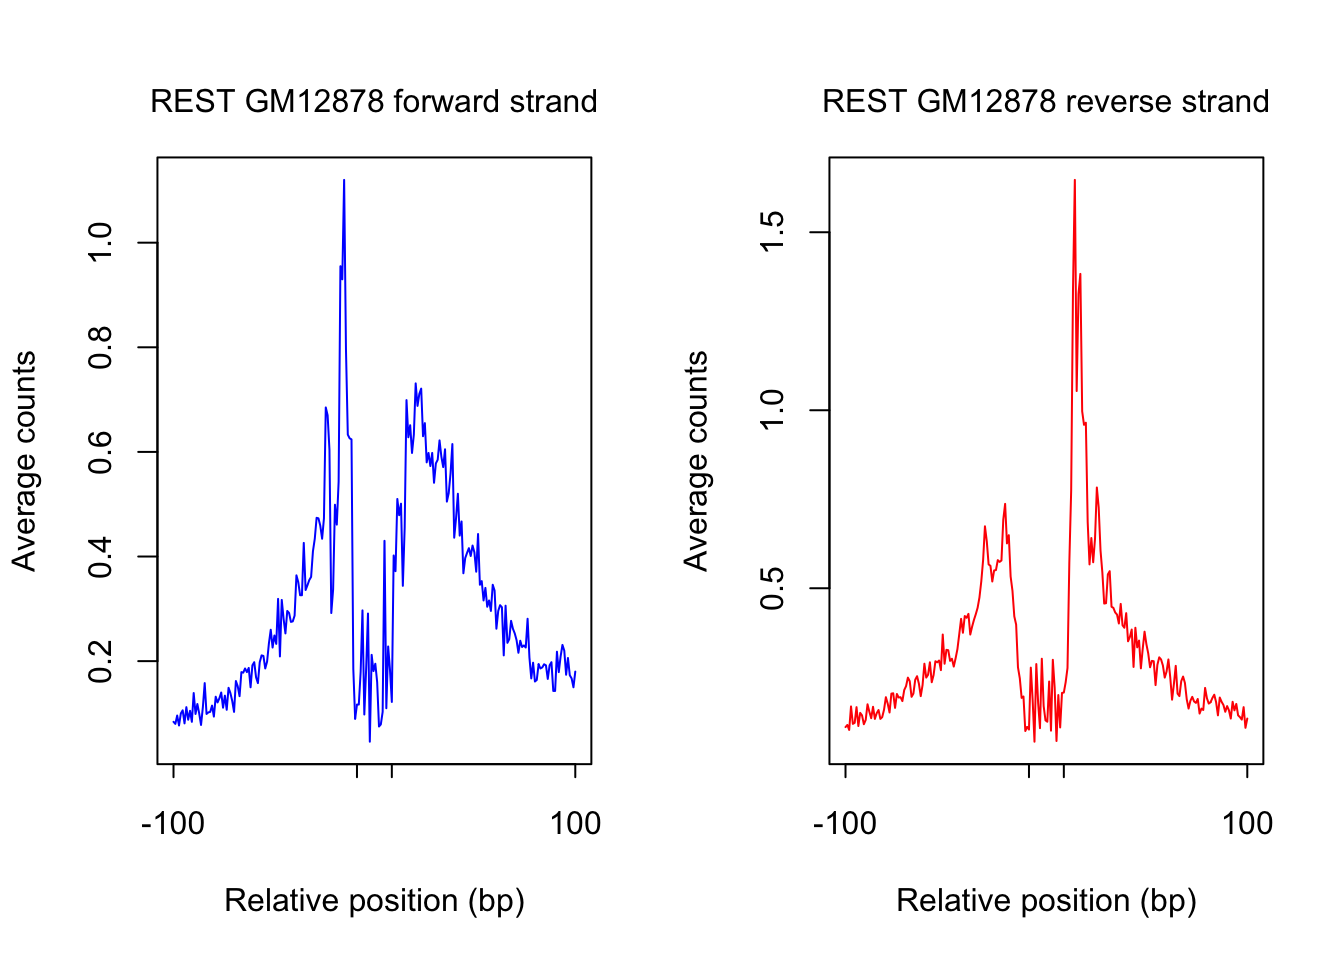
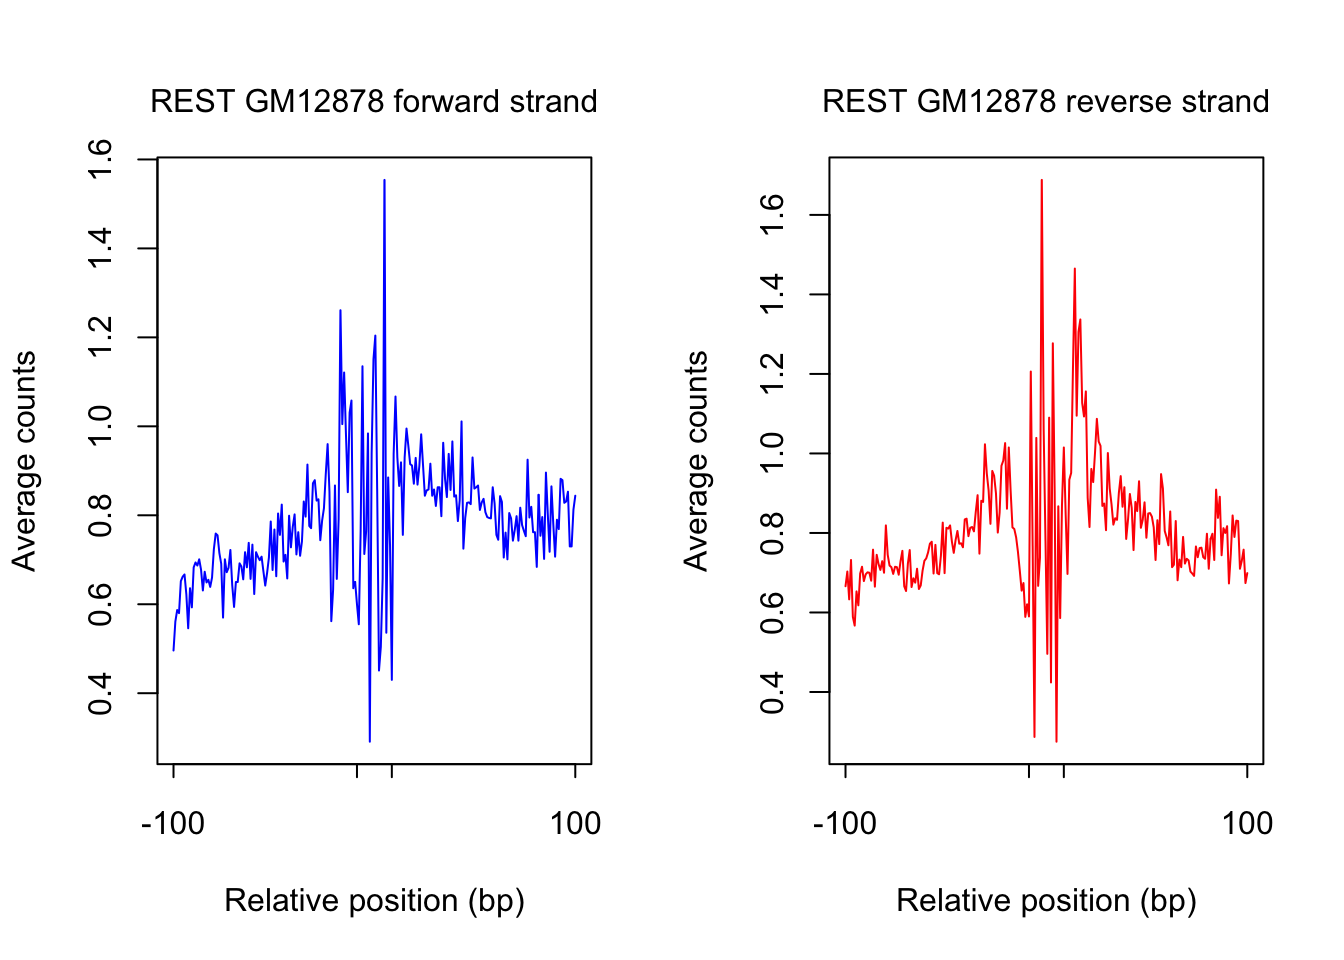
Build site.

diff --git a/docs/DNase_footprint_profiles_ENCODE.html b/docs/DNase_footprint_profiles_ENCODE.html
@@ -358,7 +358,7 @@ div.section {
 </details>
 </li>
 <li>
-<p><details> <summary> <strong style="color:blue;">✔</strong> <strong>Repository version:</strong> <a href="https://github.com/kevinlkx/ATAC-seq_footprint_analysis/tree/09836f913cb5f7958e50af47869dd8a2018408c3" target="_blank">09836f9</a> </summary></p>
+<p><details> <summary> <strong style="color:blue;">✔</strong> <strong>Repository version:</strong> <a href="https://github.com/kevinlkx/ATAC-seq_footprint_analysis/tree/a233f1177ac0ece88d304d8224beeef928fa07b1" target="_blank">a233f11</a> </summary></p>
 Great! You are using Git for version control. Tracking code development and connecting the code version to the results is critical for reproducibility. The version displayed above was the version of the Git repository at the time these results were generated. <br><br> Note that you need to be careful to ensure that all relevant files for the analysis have been committed to Git prior to generating the results (you can use <code>wflow_publish</code> or <code>wflow_git_commit</code>). workflowr only checks the R Markdown file, but you know if there are other scripts or data files that it depends on. Below is the status of the Git repository when the results were generated:
 <pre><code>
 Ignored files:
@@ -413,6 +413,40 @@ Message
 </tr>
 </thead>
 <tbody>
+<tr>
+<td style="text-align:left;">
+Rmd
+</td>
+<td style="text-align:left;">
+<a href="https://github.com/kevinlkx/ATAC-seq_footprint_analysis/blob/a233f1177ac0ece88d304d8224beeef928fa07b1/analysis/DNase_footprint_profiles_ENCODE.Rmd" target="_blank">a233f11</a>
+</td>
+<td style="text-align:left;">
+kevinlkx
+</td>
+<td style="text-align:left;">
+2018-08-29
+</td>
+<td style="text-align:left;">
+plot DNase footprint profiles of CTCF and REST using ENCODE data
+</td>
+</tr>
+<tr>
+<td style="text-align:left;">
+html
+</td>
+<td style="text-align:left;">
+<a href="https://cdn.rawgit.com/kevinlkx/ATAC-seq_footprint_analysis/b182c051faf1139658d4929ecb4a27b2d66980dc/docs/DNase_footprint_profiles_ENCODE.html" target="_blank">b182c05</a>
+</td>
+<td style="text-align:left;">
+kevinlkx
+</td>
+<td style="text-align:left;">
+2018-08-29
+</td>
+<td style="text-align:left;">
+Build site.
+</td>
+</tr>
 <tr>
 <td style="text-align:left;">
 Rmd
@@ -581,7 +615,9 @@ cat(&quot;Dimension of&quot;, dim(counts_combined.m), &quot;\n&quot;)</code></pr
 <div id="plot-footprint-profiles-of-highest-occupancy" class="section level3">
 <h3>plot footprint profiles of highest occupancy</h3>
 <pre class="r"><code>order_high_occ &lt;- order(sites.df$ChIP, decreasing = T)[1:num_top_sites]
-counts_profile &lt;- apply(counts_combined.m[order_high_occ,], 2, mean)
+counts_selected.m &lt;- counts_combined.m[order_high_occ,]
+
+counts_profile &lt;- apply(counts_selected.m, 2, mean)
 
 par(mfrow = c(1,2))
 counts &lt;- counts_profile[1:(length(counts_profile)/2)]
@@ -629,6 +665,10 @@ kevinlkx
 </tbody>
 </table>
 <p></details></p>
+<pre class="r"><code>## save counts matrix
+rds_name &lt;- paste0(dir_data, &quot;/DNase-seq_ENCODE/&quot;, cell_type, &quot;/DNaseSeq/DNase_tagcount_matrix/&quot;, tf_name, &quot;/&quot;,
+                                  pwm_name, &quot;_hg19_dnase_fwdcounts_selected_sites.rds&quot;)
+saveRDS(counts_selected.m, rds_name)</code></pre>
 </div>
 <div id="plot-footprint-profiles-of-most-accessible-sites" class="section level3">
 <h3>plot footprint profiles of most accessible sites</h3>
@@ -771,58 +811,10 @@ kevinlkx
 </tbody>
 </table>
 <p></details></p>
-</div>
-<div id="plot-footprint-profiles-of-most-accessible-sites-1" class="section level3">
-<h3>plot footprint profiles of most accessible sites</h3>
-<pre class="r"><code>order_high_acc &lt;- order(rowSums(counts_combined.m), decreasing = T)[1:num_top_sites]
-counts_profile &lt;- apply(counts_combined.m[order_high_acc,], 2, mean)
-
-par(mfrow = c(1,2))
-counts &lt;- counts_profile[1:(length(counts_profile)/2)]
-plot(counts, type = &quot;l&quot;, col = &quot;blue&quot;, xlab = &quot;Relative position (bp)&quot;, ylab = &quot;Average counts&quot;, 
-     main = &quot;&quot;, xaxt = &quot;n&quot;)
-mtext(text = paste(tf_name, cell_type, &quot;forward strand&quot;), side = 3, line = 1, cex = 1)
-axis(1,at=c(1, flank+1, length(counts)-flank, length(counts)), labels=c(-flank, &#39;&#39;,&#39;&#39; ,flank), 
-     cex.axis = 1, tck=-0.03, tick = T, cex = 1)
-
-counts &lt;- counts_profile[(length(counts_profile)/2+1): length(counts_profile)]
-
-plot(counts, type = &quot;l&quot;, col = &quot;red&quot;, xlab = &quot;Relative position (bp)&quot;, ylab = &quot;Average counts&quot;, 
-     main = &quot;&quot;, xaxt = &quot;n&quot;)
-mtext(text = paste(tf_name, cell_type, &quot;reverse strand&quot;), side = 3, line = 1, cex = 1)
-axis(1,at=c(1, flank+1, length(counts)-flank, length(counts)), labels=c(-flank, &#39;&#39;,&#39;&#39; ,flank), 
-     cex.axis = 1, tck=-0.03, tick = T, cex = 1)</code></pre>
-<p><img src="figure/DNase_footprint_profiles_ENCODE.Rmd/unnamed-chunk-8-1.png" width="672" style="display: block; margin: auto;" /></p>
-<details> <summary><em>Expand here to see past versions of unnamed-chunk-8-1.png:</em></summary>
-<table style="border-collapse:separate; border-spacing:5px;">
-<thead>
-<tr>
-<th style="text-align:left;">
-Version
-</th>
-<th style="text-align:left;">
-Author
-</th>
-<th style="text-align:left;">
-Date
-</th>
-</tr>
-</thead>
-<tbody>
-<tr>
-<td style="text-align:left;">
-<a href="https://github.com/kevinlkx/ATAC-seq_footprint_analysis/blob/35c5febbef498dccc388240f29dadafc0474c080/docs/figure/DNase_footprint_profiles_ENCODE.Rmd/unnamed-chunk-8-1.png" target="_blank">35c5feb</a>
-</td>
-<td style="text-align:left;">
-kevinlkx
-</td>
-<td style="text-align:left;">
-2018-08-29
-</td>
-</tr>
-</tbody>
-</table>
-<p></details></p>
+<pre class="r"><code>## save counts matrix
+rds_name &lt;- paste0(dir_data, &quot;/DNase-seq_ENCODE/&quot;, cell_type, &quot;/DNaseSeq/DNase_tagcount_matrix/&quot;, tf_name, &quot;/&quot;,
+                                  pwm_name, &quot;_hg19_dnase_fwdcounts_selected_sites.rds&quot;)
+saveRDS(counts_selected.m, rds_name)</code></pre>
 </div>
 </div>
 <div id="rest-in-gm12878-cell-type" class="section level2">
@@ -882,6 +874,32 @@ plot(counts, type = &quot;l&quot;, col = &quot;red&quot;, xlab = &quot;Relative 
 mtext(text = paste(tf_name, cell_type, &quot;reverse strand&quot;), side = 3, line = 1, cex = 1)
 axis(1,at=c(1, flank+1, length(counts)-flank, length(counts)), labels=c(-flank, &#39;&#39;,&#39;&#39; ,flank), 
      cex.axis = 1, tck=-0.03, tick = T, cex = 1)</code></pre>
+<p><img src="figure/DNase_footprint_profiles_ENCODE.Rmd/unnamed-chunk-9-1.png" width="672" style="display: block; margin: auto;" /></p>
+<pre class="r"><code>## save counts matrix
+rds_name &lt;- paste0(dir_data, &quot;/DNase-seq_ENCODE/&quot;, cell_type, &quot;/DNaseSeq/DNase_tagcount_matrix/&quot;, tf_name, &quot;/&quot;,
+                                  pwm_name, &quot;_hg19_dnase_fwdcounts_selected_sites.rds&quot;)
+saveRDS(counts_selected.m, rds_name)</code></pre>
+</div>
+<div id="plot-footprint-profiles-of-most-accessible-sites-1" class="section level3">
+<h3>plot footprint profiles of most accessible sites</h3>
+<pre class="r"><code>order_high_acc &lt;- order(rowSums(counts_combined.m), decreasing = T)[1:num_top_sites]
+counts_profile &lt;- apply(counts_combined.m[order_high_acc,], 2, mean)
+
+par(mfrow = c(1,2))
+counts &lt;- counts_profile[1:(length(counts_profile)/2)]
+plot(counts, type = &quot;l&quot;, col = &quot;blue&quot;, xlab = &quot;Relative position (bp)&quot;, ylab = &quot;Average counts&quot;, 
+     main = &quot;&quot;, xaxt = &quot;n&quot;)
+mtext(text = paste(tf_name, cell_type, &quot;forward strand&quot;), side = 3, line = 1, cex = 1)
+axis(1,at=c(1, flank+1, length(counts)-flank, length(counts)), labels=c(-flank, &#39;&#39;,&#39;&#39; ,flank), 
+     cex.axis = 1, tck=-0.03, tick = T, cex = 1)
+
+counts &lt;- counts_profile[(length(counts_profile)/2+1): length(counts_profile)]
+
+plot(counts, type = &quot;l&quot;, col = &quot;red&quot;, xlab = &quot;Relative position (bp)&quot;, ylab = &quot;Average counts&quot;, 
+     main = &quot;&quot;, xaxt = &quot;n&quot;)
+mtext(text = paste(tf_name, cell_type, &quot;reverse strand&quot;), side = 3, line = 1, cex = 1)
+axis(1,at=c(1, flank+1, length(counts)-flank, length(counts)), labels=c(-flank, &#39;&#39;,&#39;&#39; ,flank), 
+     cex.axis = 1, tck=-0.03, tick = T, cex = 1)</code></pre>
 <p><img src="figure/DNase_footprint_profiles_ENCODE.Rmd/unnamed-chunk-10-1.png" width="672" style="display: block; margin: auto;" /></p>
 <details> <summary><em>Expand here to see past versions of unnamed-chunk-10-1.png:</em></summary>
 <table style="border-collapse:separate; border-spacing:5px;">
@@ -902,58 +920,6 @@ Date
 <tr>
 <td style="text-align:left;">
 <a href="https://github.com/kevinlkx/ATAC-seq_footprint_analysis/blob/35c5febbef498dccc388240f29dadafc0474c080/docs/figure/DNase_footprint_profiles_ENCODE.Rmd/unnamed-chunk-10-1.png" target="_blank">35c5feb</a>
-</td>
-<td style="text-align:left;">
-kevinlkx
-</td>
-<td style="text-align:left;">
-2018-08-29
-</td>
-</tr>
-</tbody>
-</table>
-<p></details></p>
-</div>
-<div id="plot-footprint-profiles-of-most-accessible-sites-2" class="section level3">
-<h3>plot footprint profiles of most accessible sites</h3>
-<pre class="r"><code>order_high_acc &lt;- order(rowSums(counts_combined.m), decreasing = T)[1:num_top_sites]
-counts_profile &lt;- apply(counts_combined.m[order_high_acc,], 2, mean)
-
-par(mfrow = c(1,2))
-counts &lt;- counts_profile[1:(length(counts_profile)/2)]
-plot(counts, type = &quot;l&quot;, col = &quot;blue&quot;, xlab = &quot;Relative position (bp)&quot;, ylab = &quot;Average counts&quot;, 
-     main = &quot;&quot;, xaxt = &quot;n&quot;)
-mtext(text = paste(tf_name, cell_type, &quot;forward strand&quot;), side = 3, line = 1, cex = 1)
-axis(1,at=c(1, flank+1, length(counts)-flank, length(counts)), labels=c(-flank, &#39;&#39;,&#39;&#39; ,flank), 
-     cex.axis = 1, tck=-0.03, tick = T, cex = 1)
-
-counts &lt;- counts_profile[(length(counts_profile)/2+1): length(counts_profile)]
-
-plot(counts, type = &quot;l&quot;, col = &quot;red&quot;, xlab = &quot;Relative position (bp)&quot;, ylab = &quot;Average counts&quot;, 
-     main = &quot;&quot;, xaxt = &quot;n&quot;)
-mtext(text = paste(tf_name, cell_type, &quot;reverse strand&quot;), side = 3, line = 1, cex = 1)
-axis(1,at=c(1, flank+1, length(counts)-flank, length(counts)), labels=c(-flank, &#39;&#39;,&#39;&#39; ,flank), 
-     cex.axis = 1, tck=-0.03, tick = T, cex = 1)</code></pre>
-<p><img src="figure/DNase_footprint_profiles_ENCODE.Rmd/unnamed-chunk-11-1.png" width="672" style="display: block; margin: auto;" /></p>
-<details> <summary><em>Expand here to see past versions of unnamed-chunk-11-1.png:</em></summary>
-<table style="border-collapse:separate; border-spacing:5px;">
-<thead>
-<tr>
-<th style="text-align:left;">
-Version
-</th>
-<th style="text-align:left;">
-Author
-</th>
-<th style="text-align:left;">
-Date
-</th>
-</tr>
-</thead>
-<tbody>
-<tr>
-<td style="text-align:left;">
-<a href="https://github.com/kevinlkx/ATAC-seq_footprint_analysis/blob/35c5febbef498dccc388240f29dadafc0474c080/docs/figure/DNase_footprint_profiles_ENCODE.Rmd/unnamed-chunk-11-1.png" target="_blank">35c5feb</a>
 </td>
 <td style="text-align:left;">
 kevinlkx
@@ -1025,37 +991,11 @@ plot(counts, type = &quot;l&quot;, col = &quot;red&quot;, xlab = &quot;Relative 
 mtext(text = paste(tf_name, cell_type, &quot;reverse strand&quot;), side = 3, line = 1, cex = 1)
 axis(1,at=c(1, flank+1, length(counts)-flank, length(counts)), labels=c(-flank, &#39;&#39;,&#39;&#39; ,flank), 
      cex.axis = 1, tck=-0.03, tick = T, cex = 1)</code></pre>
-<p><img src="figure/DNase_footprint_profiles_ENCODE.Rmd/unnamed-chunk-13-1.png" width="672" style="display: block; margin: auto;" /></p>
-<details> <summary><em>Expand here to see past versions of unnamed-chunk-13-1.png:</em></summary>
-<table style="border-collapse:separate; border-spacing:5px;">
-<thead>
-<tr>
-<th style="text-align:left;">
-Version
-</th>
-<th style="text-align:left;">
-Author
-</th>
-<th style="text-align:left;">
-Date
-</th>
-</tr>
-</thead>
-<tbody>
-<tr>
-<td style="text-align:left;">
-<a href="https://github.com/kevinlkx/ATAC-seq_footprint_analysis/blob/35c5febbef498dccc388240f29dadafc0474c080/docs/figure/DNase_footprint_profiles_ENCODE.Rmd/unnamed-chunk-13-1.png" target="_blank">35c5feb</a>
-</td>
-<td style="text-align:left;">
-kevinlkx
-</td>
-<td style="text-align:left;">
-2018-08-29
-</td>
-</tr>
-</tbody>
-</table>
-<p></details></p>
+<p><img src="figure/DNase_footprint_profiles_ENCODE.Rmd/unnamed-chunk-12-1.png" width="672" style="display: block; margin: auto;" /></p>
+<pre class="r"><code>## save counts matrix
+rds_name &lt;- paste0(dir_data, &quot;/DNase-seq_ENCODE/&quot;, cell_type, &quot;/DNaseSeq/DNase_tagcount_matrix/&quot;, tf_name, &quot;/&quot;,
+                                  pwm_name, &quot;_hg19_dnase_fwdcounts_selected_sites.rds&quot;)
+saveRDS(counts_selected.m, rds_name)</code></pre>
 </div>
 </div>
 <div id="session-information" class="section level2">
